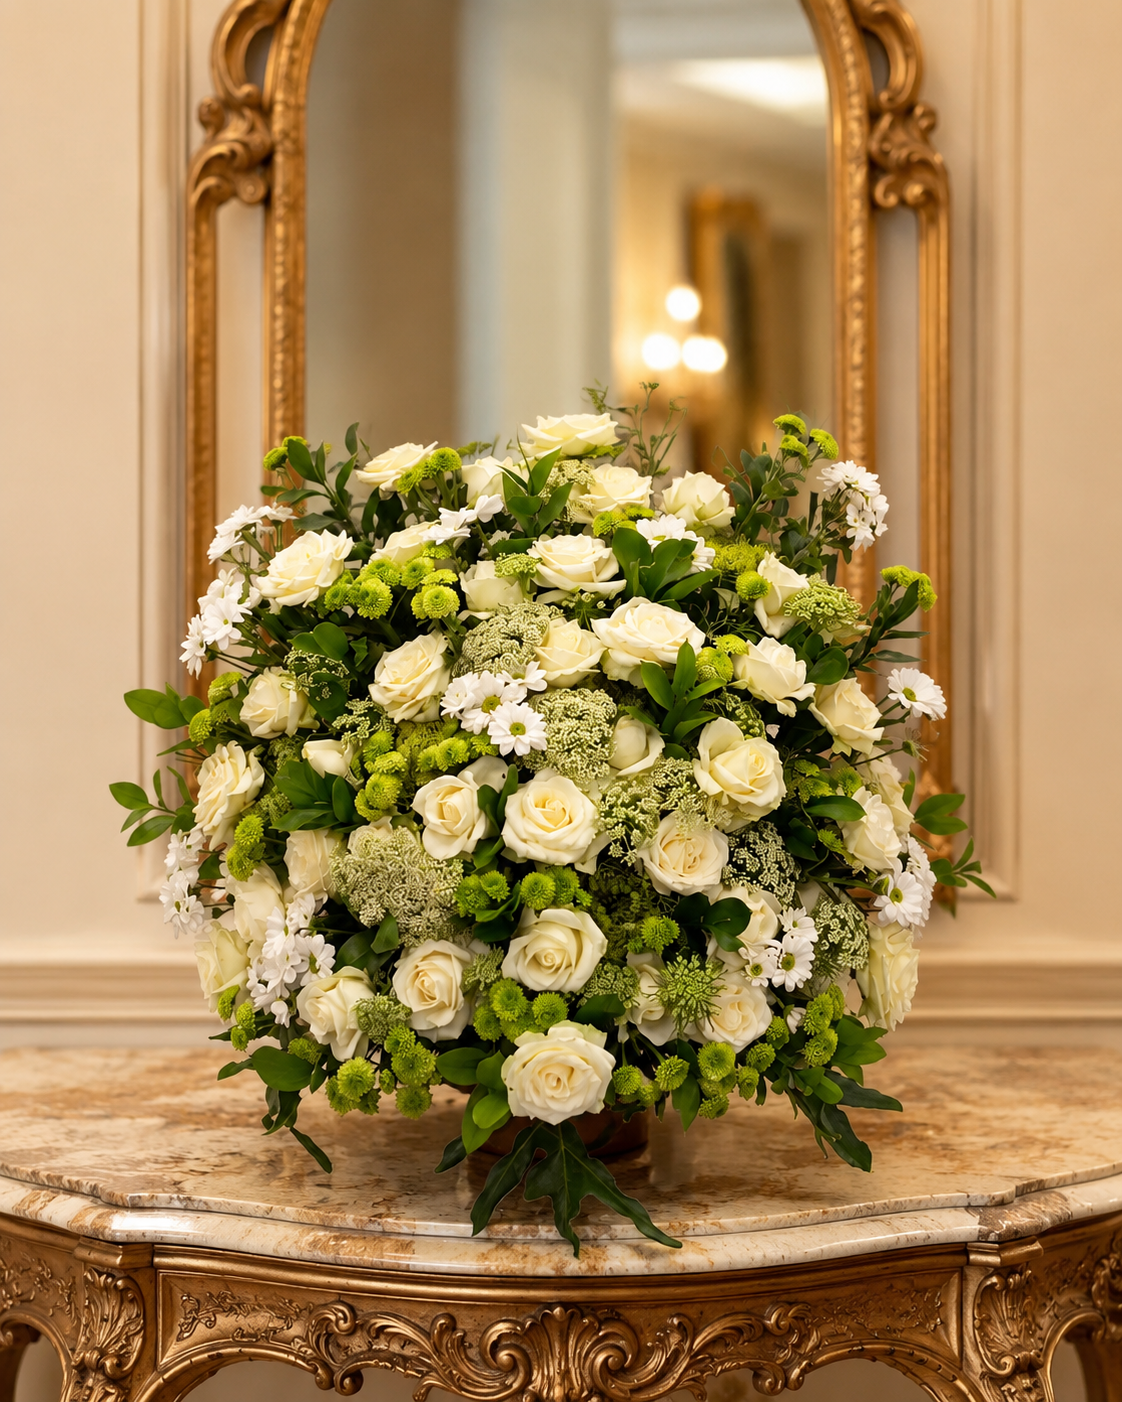
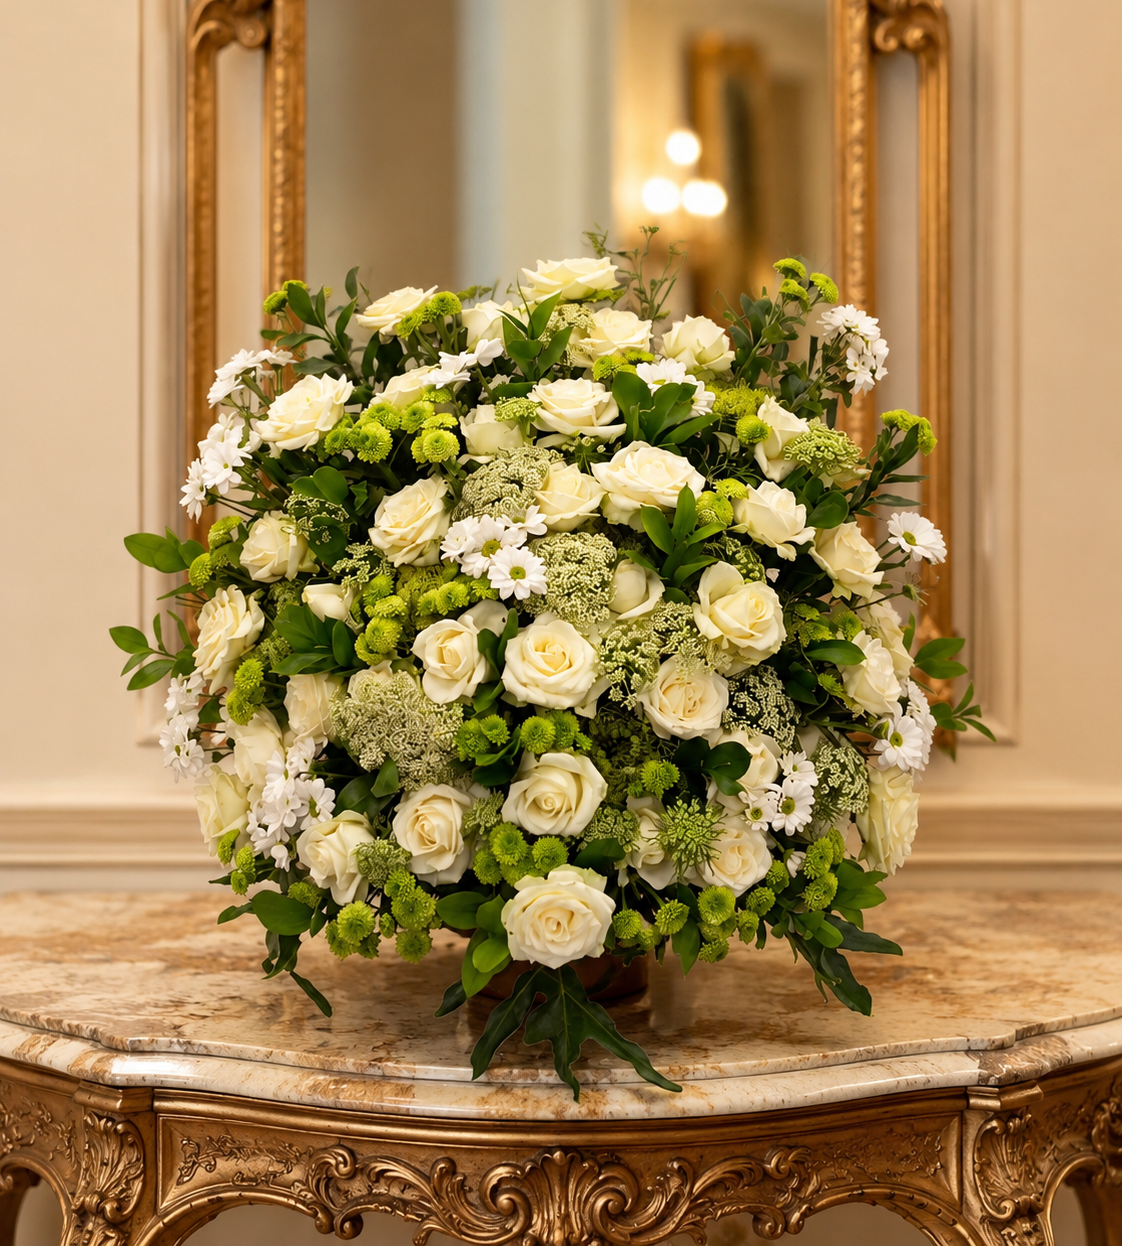
restore real products and delete placeholder duplicate products

diff --git a/src/data/products.ts b/src/data/products.ts
@@ -56,7 +56,7 @@ const RAW_CATEGORIES: Category[] = [
     name: "Standing Flower",
     description: "Bunga berdiri eksklusif untuk diletakkan di dalam ruangan, cocok untuk acara formal maupun duka cita.",
     seoTitle: "Standing Flower Malang Murah & Berkualitas",
-    seoDescription: "Pesan standing flower Malang murah dan berkualitas untuk duka cita, opening, wedding, dan acara formal. Rangkaian segar, elegan, dan pengiriman aman.",
+    seoDescription: "Pesan standing flower Malang murah and berkualitas untuk duka cita, opening, wedding, dan acara formal. Rangkaian segar, elegan, dan pengiriman aman.",
     image: "/images/kategori/standing-flower.webp"
   },
   {
@@ -86,79 +86,207 @@ const RAW_CATEGORIES: Category[] = [
 ];
 
 export const PRODUCTS: Product[] = [
-  // Bunga Papan Duka Cita
+  // Bunga Papan Duka Cita (Hanya produk riil pengguna)
   {
-    id: "BP-DC-01",
-    slug: "bunga-papan-duka-cita-malang-classic-white",
-    name: "Bunga Papan Duka Cita - Classic White",
-    categorySlug: "bunga-papan-duka-cita-malang",
-    categoryName: "Bunga Papan Duka Cita",
-    city: "Malang",
-    priceFrom: 500000,
-    priceLabel: "Rp 500.000",
-    image: "/images/produk/bunga-papan/duka-cita/500000/duka-cita-classic.webp",
-    imageWidth: 960,
-    imageHeight: 960,
-    description: "Karangan bunga papan duka cita dengan dominasi warna putih bersih, hijau tua, dan aksen kuning/hitam yang memberikan kesan tenang, takzim, dan penuh rasa hormat. Menggunakan bunga segar pilihan di bagian atas dan bawah papan, serta bahan spon tebal berkualitas tinggi. Sangat tepat sebagai ungkapan simpati mendalam Anda.",
-    featured: true,
-    whatsappText: "Halo Floragate, saya ingin pesan karangan Bunga Papan Duka Cita - Classic White (BP-DC-01). Mohon info harga detail dan format pemesanannya.",
-    processingTime: "3 - 4 Jam",
-    serviceArea: ["Kota Malang", "Kabupaten Malang", "Kota Batu"]
-  },
-  {
-    id: "BP-DC-02",
-    slug: "bunga-papan-duka-cita-malang-premium-purple",
-    name: "Bunga Papan Duka Cita - Premium Purple",
+    id: "BP-DC-03",
+    slug: "bunga-papan-duka-cita-malang-product1",
+    name: "Bunga Papan Duka Cita - Product1",
     categorySlug: "bunga-papan-duka-cita-malang",
     categoryName: "Bunga Papan Duka Cita",
     city: "Malang",
     priceFrom: 750000,
     priceLabel: "Rp 750.000",
-    image: "/images/produk/bunga-papan/duka-cita/750000/duka-cita-premium.webp",
-    imageWidth: 960,
-    imageHeight: 960,
-    description: "Karangan bunga papan duka cita ukuran besar (2x1.25m) dengan kombinasi warna ungu anggun dan putih bersih. Rangkaian bunga segar penuh di atas, bawah, kanan, dan kiri papan memberikan tampilan yang sangat mewah dan eksklusif. Dibuat khusus oleh mitra florist berpengalaman untuk menyampaikan belasungkawa terbaik Anda.",
-    featured: false,
-    whatsappText: "Halo Floragate, saya ingin pesan karangan Bunga Papan Duka Cita - Premium Purple (BP-DC-02). Mohon info harga detail dan format pemesanannya.",
+    image: "/images/produk/bunga-papan/duka-cita/750000/Product1.png",
+    imageWidth: 1122,
+    imageHeight: 1230,
+    description: "Karangan bunga papan duka cita dengan desain elegan dan rangkaian bunga yang tertata rapi untuk menyampaikan belasungkawa secara hangat, sopan, dan penuh penghormatan.",
+    featured: true,
+    whatsappText: "Halo Floragate, saya ingin pesan karangan Bunga Papan Duka Cita - Product1 (BP-DC-03). Mohon info harga detail dan format pemesanannya.",
     processingTime: "3 - 4 Jam",
     serviceArea: ["Kota Malang", "Kabupaten Malang", "Kota Batu"]
   },
 
-  // Bunga Papan Wedding
+  // Bunga Papan Wedding (Hanya produk riil pengguna)
   {
-    id: "BP-WD-01",
-    slug: "bunga-papan-wedding-malang-sweet-romance",
-    name: "Bunga Papan Wedding - Sweet Romance",
+    id: "BP-WD-03",
+    slug: "bunga-papan-wedding-malang-product1",
+    name: "Bunga Papan Wedding - Product1",
     categorySlug: "bunga-papan-wedding-malang",
     categoryName: "Bunga Papan Wedding",
     city: "Malang",
-    priceFrom: 600000,
-    priceLabel: "Rp 600.000",
-    image: "/images/produk/bunga-papan/wedding/600000/wedding-sweet.webp",
-    imageWidth: 960,
-    imageHeight: 960,
-    description: "Bunga papan pernikahan bertema romantis manis dengan perpaduan warna pink pastel, putih, dan merah hati. Dihiasi dengan bunga-bunga segar berkualitas tinggi seperti krisan, aster, dan mawar lokal. Desain huruf yang rapi dan artistik menjamin ucapan selamat Anda terlihat menonjol dan indah di area pesta pernikahan.",
+    priceFrom: 800000,
+    priceLabel: "Rp 800.000",
+    image: "/images/produk/bunga-papan/wedding/800000/Product1.png",
+    imageWidth: 1122,
+    imageHeight: 1297,
+    description: "Bunga papan wedding dengan tampilan meriah dan rangkaian bunga yang cantik untuk menyampaikan ucapan selamat atas momen pernikahan keluarga, sahabat, atau rekan kerja.",
     featured: true,
-    whatsappText: "Halo Floragate, saya ingin pesan karangan Bunga Papan Wedding - Sweet Romance (BP-WD-01). Mohon info harga detail dan format pemesanannya.",
+    whatsappText: "Halo Floragate, saya ingin pesan karangan Bunga Papan Wedding - Product1 (BP-WD-03). Mohon info harga detail dan format pemesanannya.",
     processingTime: "3 - 4 Jam",
     serviceArea: ["Kota Malang", "Kabupaten Malang", "Kota Batu"]
   },
   {
-    id: "BP-WD-02",
-    slug: "bunga-papan-wedding-malang-luxury-rose",
-    name: "Bunga Papan Wedding - Luxury Rose",
+    id: "BP-WD-04",
+    slug: "bunga-papan-wedding-malang-paket-700",
+    name: "Bunga Papan Wedding - Paket 700",
     categorySlug: "bunga-papan-wedding-malang",
     categoryName: "Bunga Papan Wedding",
     city: "Malang",
-    priceFrom: 900000,
-    priceLabel: "Rp 900.000",
-    image: "/images/produk/bunga-papan/wedding/900000/wedding-luxury.webp",
-    imageWidth: 960,
-    imageHeight: 960,
-    description: "Karangan bunga papan pernikahan kelas premium ukuran super megah. Memiliki hiasan bunga mawar merah dan putih melimpah di setiap sudutnya, ditambah dengan dedaunan hijau tropis yang menambah kesegaran alami. Desain latar belakang yang elegan memberikan kesan sangat eksklusif bagi penerima ucapan.",
+    priceFrom: 700000,
+    priceLabel: "Rp 700.000",
+    image: "/images/produk/bunga-papan/wedding/700.png",
+    imageWidth: 1122,
+    imageHeight: 1402,
+    description: "Bunga papan wedding paket 700 ribu dengan desain ceria dan rangkaian bunga segar yang rapi untuk ucapan selamat pernikahan di area Malang Raya.",
     featured: false,
-    whatsappText: "Halo Floragate, saya ingin pesan karangan Bunga Papan Wedding - Luxury Rose (BP-WD-02). Mohon info harga detail dan format pemesanannya.",
+    whatsappText: "Halo Floragate, saya ingin pesan karangan Bunga Papan Wedding - Paket 700 (BP-WD-04). Mohon info harga detail dan format pemesanannya.",
+    processingTime: "3 - 4 Jam",
+    serviceArea: ["Kota Malang", "Kabupaten Malang", "Kota Batu"]
+  },
+  {
+    id: "BP-WD-05",
+    slug: "bunga-papan-wedding-malang-paket-800",
+    name: "Bunga Papan Wedding - Paket 800",
+    categorySlug: "bunga-papan-wedding-malang",
+    categoryName: "Bunga Papan Wedding",
+    city: "Malang",
+    priceFrom: 800000,
+    priceLabel: "Rp 800.000",
+    image: "/images/produk/bunga-papan/wedding/800.png",
+    imageWidth: 1122,
+    imageHeight: 1402,
+    description: "Bunga papan wedding paket 800 ribu dengan tampilan meriah, warna menarik, dan komposisi bunga yang cantik untuk mengirimkan ucapan selamat pernikahan.",
+    featured: false,
+    whatsappText: "Halo Floragate, saya ingin pesan karangan Bunga Papan Wedding - Paket 800 (BP-WD-05). Mohon info harga detail dan format pemesanannya.",
+    processingTime: "3 - 4 Jam",
+    serviceArea: ["Kota Malang", "Kabupaten Malang", "Kota Batu"]
+  },
+  {
+    id: "BP-WD-06",
+    slug: "bunga-papan-wedding-malang-paket-950",
+    name: "Bunga Papan Wedding - Paket 950",
+    categorySlug: "bunga-papan-wedding-malang",
+    categoryName: "Bunga Papan Wedding",
+    city: "Malang",
+    priceFrom: 950000,
+    priceLabel: "Rp 950.000",
+    image: "/images/produk/bunga-papan/wedding/950.png",
+    imageWidth: 1122,
+    imageHeight: 1402,
+    description: "Bunga papan wedding paket 950 ribu dengan susunan bunga yang lebih penuh dan elegan untuk melengkapi momen pernikahan keluarga, sahabat, atau rekan kerja.",
+    featured: false,
+    whatsappText: "Halo Floragate, saya ingin pesan karangan Bunga Papan Wedding - Paket 950 (BP-WD-06). Mohon info harga detail dan format pemesanannya.",
+    processingTime: "3 - 4 Jam",
+    serviceArea: ["Kota Malang", "Kabupaten Malang", "Kota Batu"]
+  },
+  {
+    id: "BP-WD-07",
+    slug: "bunga-papan-wedding-malang-paket-1350",
+    name: "Bunga Papan Wedding - Paket 1350",
+    categorySlug: "bunga-papan-wedding-malang",
+    categoryName: "Bunga Papan Wedding",
+    city: "Malang",
+    priceFrom: 1350000,
+    priceLabel: "Rp 1.350.000",
+    image: "/images/produk/bunga-papan/wedding/1350.png",
+    imageWidth: 1122,
+    imageHeight: 1402,
+    description: "Bunga papan wedding paket 1,35 juta dengan desain premium, ukuran tampilan yang megah, dan rangkaian bunga lebih melimpah untuk ucapan pernikahan yang berkesan.",
+    featured: false,
+    whatsappText: "Halo Floragate, saya ingin pesan karangan Bunga Papan Wedding - Paket 1350 (BP-WD-07). Mohon info harga detail dan format pemesanannya.",
     processingTime: "4 - 5 Jam",
+    serviceArea: ["Kota Malang", "Kabupaten Malang", "Kota Batu"]
+  },
+  {
+    id: "BP-WD-08",
+    slug: "bunga-papan-wedding-malang-product3",
+    name: "Bunga Papan Wedding - Product3",
+    categorySlug: "bunga-papan-wedding-malang",
+    categoryName: "Bunga Papan Wedding",
+    city: "Malang",
+    priceFrom: 800000,
+    priceLabel: "Rp 800.000",
+    image: "/images/produk/bunga-papan/wedding/800000/Product3.png",
+    imageWidth: 1122,
+    imageHeight: 1402,
+    description: "Bunga papan wedding paket 800 ribu varian Product3 dengan tampilan meriah dan rangkaian bunga segar yang cantik untuk ucapan selamat pernikahan.",
+    featured: false,
+    whatsappText: "Halo Floragate, saya ingin pesan karangan Bunga Papan Wedding - Product3 (BP-WD-08). Mohon info harga detail dan format pemesanannya.",
+    processingTime: "3 - 4 Jam",
+    serviceArea: ["Kota Malang", "Kabupaten Malang", "Kota Batu"]
+  },
+
+  // Bunga Papan Congratulations
+  {
+    id: "BP-CG-01",
+    slug: "bunga-papan-congratulations-success-gold",
+    name: "Bunga Papan Congratulations - Success Gold",
+    categorySlug: "bunga-papan-congratulations-malang",
+    categoryName: "Bunga Papan Congratulations",
+    city: "Malang",
+    priceFrom: 550000,
+    priceLabel: "Rp 550.000",
+    image: "/images/produk/bunga-papan/congratulations/550000/Product1.png",
+    imageWidth: 1084,
+    imageHeight: 1272,
+    description: "Bunga papan ucapan 'Selamat & Sukses' atau 'Congratulations' dengan nuansa warna kuning cerah, merah meriah, dan aksen emas (gold) yang melambangkan kemakmuran dan kesuksesan. Sangat cocok diletakkan di depan toko baru, kantor baru, atau kafe saat peresmian / grand opening di area Malang.",
+    featured: true,
+    whatsappText: "Halo Floragate, saya ingin pesan karangan Bunga Papan Congratulations - Success Gold (BP-CG-01). Mohon info harga detail dan format pemesanannya.",
+    processingTime: "3 - 4 Jam",
+    serviceArea: ["Kota Malang", "Kabupaten Malang", "Kota Batu"]
+  },
+  {
+    id: "BP-CG-03",
+    slug: "bunga-papan-congratulations-grand-opening-classic",
+    name: "Bunga Papan Congratulations - Grand Opening Classic",
+    categorySlug: "bunga-papan-congratulations-malang",
+    categoryName: "Bunga Papan Congratulations",
+    city: "Malang",
+    priceFrom: 550000,
+    priceLabel: "Rp 550.000",
+    image: "/images/produk/bunga-papan/congratulations/550000/Product2.png",
+    imageWidth: 1085,
+    imageHeight: 1450,
+    description: "Bunga papan congratulations untuk ucapan selamat pembukaan usaha, grand opening, atau momen pencapaian penting. Desain rapi dengan komposisi bunga yang menonjol sehingga pesan ucapan terlihat jelas dan elegan.",
+    featured: false,
+    whatsappText: "Halo Floragate, saya ingin pesan karangan Bunga Papan Congratulations - Grand Opening Classic (BP-CG-03). Mohon info harga detail dan format pemesanannya.",
+    processingTime: "3 - 4 Jam",
+    serviceArea: ["Kota Malang", "Kabupaten Malang", "Kota Batu"]
+  },
+  {
+    id: "BP-CG-02",
+    slug: "bunga-papan-congratulations-vibrant-achievement",
+    name: "Bunga Papan Congratulations - Vibrant Achievement",
+    categorySlug: "bunga-papan-congratulations-malang",
+    categoryName: "Bunga Papan Congratulations",
+    city: "Malang",
+    priceFrom: 2250000,
+    priceLabel: "Rp 2.250.000",
+    image: "/images/produk/bunga-papan/congratulations/2250000/Product1.png",
+    imageWidth: 1158,
+    imageHeight: 1359,
+    description: "Karangan bunga papan selamat grand opening dengan desain penuh energi, paduan warna jingga, merah menyala, dan biru navy yang modern. Dirangkai menggunakan spon tebal anti badai dengan hiasan bunga segar melimpah ruah di bagian mahkota atas dan kaki bawah papan bunga.",
+    featured: false,
+    whatsappText: "Halo Floragate, saya ingin pesan karangan Bunga Papan Congratulations - Vibrant Achievement (BP-CG-02). Mohon info harga detail dan format pemesanannya.",
+    processingTime: "3 - 4 Jam",
+    serviceArea: ["Kota Malang", "Kabupaten Malang", "Kota Batu"]
+  },
+  {
+    id: "BP-CG-04",
+    slug: "bunga-papan-congratulations-premium-celebration",
+    name: "Bunga Papan Congratulations - Premium Celebration",
+    categorySlug: "bunga-papan-congratulations-malang",
+    categoryName: "Bunga Papan Congratulations",
+    city: "Malang",
+    priceFrom: 250000,
+    priceLabel: "Rp 2.500.000",
+    image: "/images/produk/bunga-papan/congratulations/2250000/2500000.png",
+    imageWidth: 1122,
+    imageHeight: 1311,
+    description: "Karangan bunga papan congratulations premium dengan tampilan megah dan rangkaian bunga melimpah untuk pembukaan usaha, pencapaian penting, atau ucapan selamat eksklusif di area Malang.",
+    featured: false,
+    whatsappText: "Halo Floragate, saya ingin pesan karangan Bunga Papan Congratulations - Premium Celebration (BP-CG-04). Mohon info harga detail dan format pemesanannya.",
+    processingTime: "3 - 4 Jam",
     serviceArea: ["Kota Malang", "Kabupaten Malang", "Kota Batu"]
   },
 
@@ -198,44 +326,6 @@ export const PRODUCTS: Product[] = [
     whatsappText: "Halo Floragate, saya ingin pesan Standing Flower - Paket 1150 (SF-02). Mohon info harga detail dan format pemesanannya.",
     processingTime: "3 Jam",
     serviceArea: ["Kota Malang", "Kabupaten Malang", "Kota Batu"]
-  },
-
-  // Hand Bouquet
-  {
-    id: "HB-01",
-    slug: "hand-bouquet-malang-red-rose-passion",
-    name: "Hand Bouquet - Red Rose Passion",
-    categorySlug: "hand-bouquet-malang",
-    categoryName: "Hand Bouquet",
-    city: "Malang",
-    priceFrom: 250000,
-    priceLabel: "Rp 250.000",
-    image: "/images/produk/hand-bouquet/250000/bouquet-red-rose.webp",
-    imageWidth: 960,
-    imageHeight: 960,
-    description: "Buket bunga mawar merah segar berisi 12-15 tangkai mawar premium pilihan yang diikat manis dengan kertas pembungkus (wrapping paper) hitam matte atau coklat craft elegan. Aksen baby's breath putih di sekeliling mawar menambah keanggunan buket ini. Kado paling romantis untuk orang tercinta di Malang.",
-    featured: true,
-    whatsappText: "Halo Floragate, saya ingin pesan Hand Bouquet - Red Rose Passion (HB-01). Mohon info harga detail dan format pemesanannya.",
-    processingTime: "1 - 2 Jam",
-    serviceArea: ["Kota Malang", "Kota Batu"]
-  },
-  {
-    id: "HB-02",
-    slug: "hand-bouquet-malang-tulip-breeze",
-    name: "Hand Bouquet - Tulip Breeze",
-    categorySlug: "hand-bouquet-malang",
-    categoryName: "Hand Bouquet",
-    city: "Malang",
-    priceFrom: 400000,
-    priceLabel: "Rp 400.000",
-    image: "/images/produk/hand-bouquet/400000/bouquet-tulip.webp",
-    imageWidth: 960,
-    imageHeight: 960,
-    description: "Buket bunga tangan eksklusif yang menggunakan bunga tulip segar impor (warna pink/putih/kuning sesuai ketersediaan). Rangkaian bunga tulip ini dipadukan dengan daun eucalyptus beraroma menenangkan. Kado ulang tahun, wisuda, atau hari spesial yang sangat modern dan minimalis.",
-    featured: false,
-    whatsappText: "Halo Floragate, saya ingin pesan Hand Bouquet - Tulip Breeze (HB-02). Mohon info harga detail dan format pemesanannya.",
-    processingTime: "2 Jam",
-    serviceArea: ["Kota Malang", "Kota Batu"]
   },
 
   // Paper Flower
@@ -290,7 +380,7 @@ export const PRODUCTS: Product[] = [
     imageWidth: 960,
     imageHeight: 1200,
     description: "Bunga meja paket 700 ribu dengan rangkaian segar yang cocok untuk meja tamu, lobby, meja resepsionis, rapat, atau dekorasi acara formal di area Malang.",
-    featured: false,
+    featured: true,
     whatsappText: "Halo Floragate, saya ingin pesan Bunga Meja - Paket 700 (BM-01). Mohon info harga detail dan format pemesanannya.",
     processingTime: "2 - 3 Jam",
     serviceArea: ["Kota Malang", "Kabupaten Malang", "Kota Batu"]
